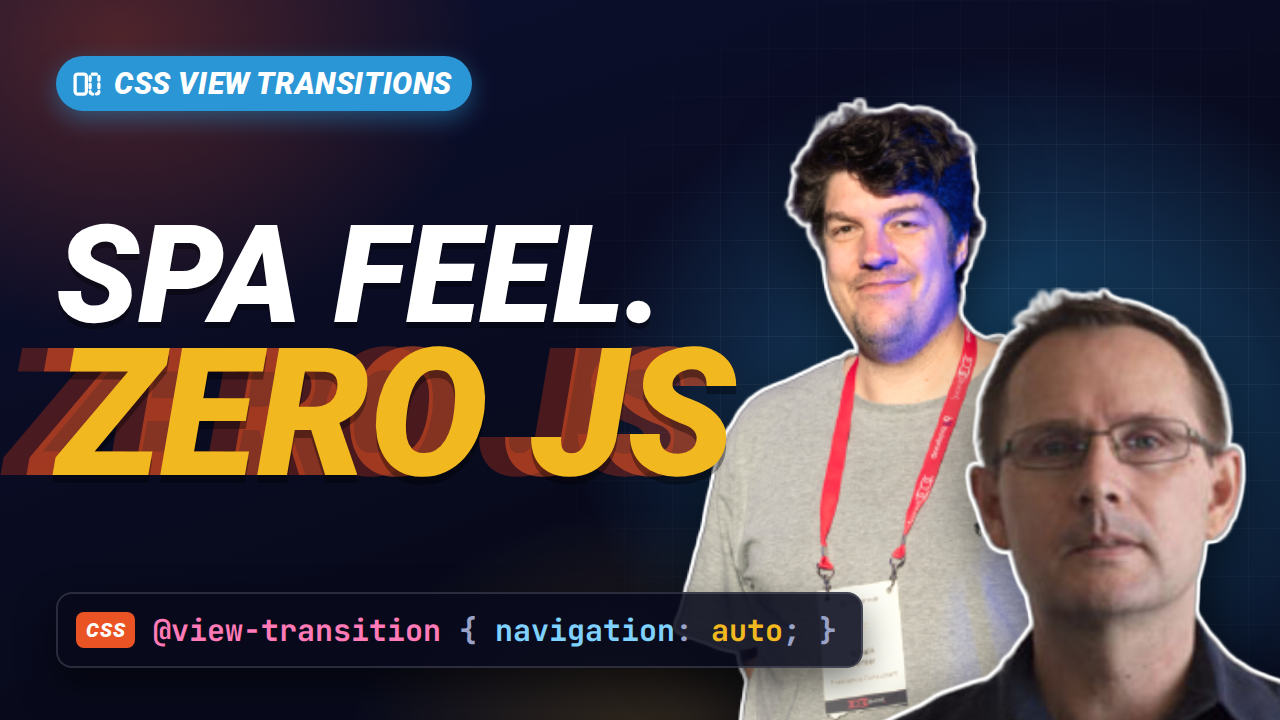
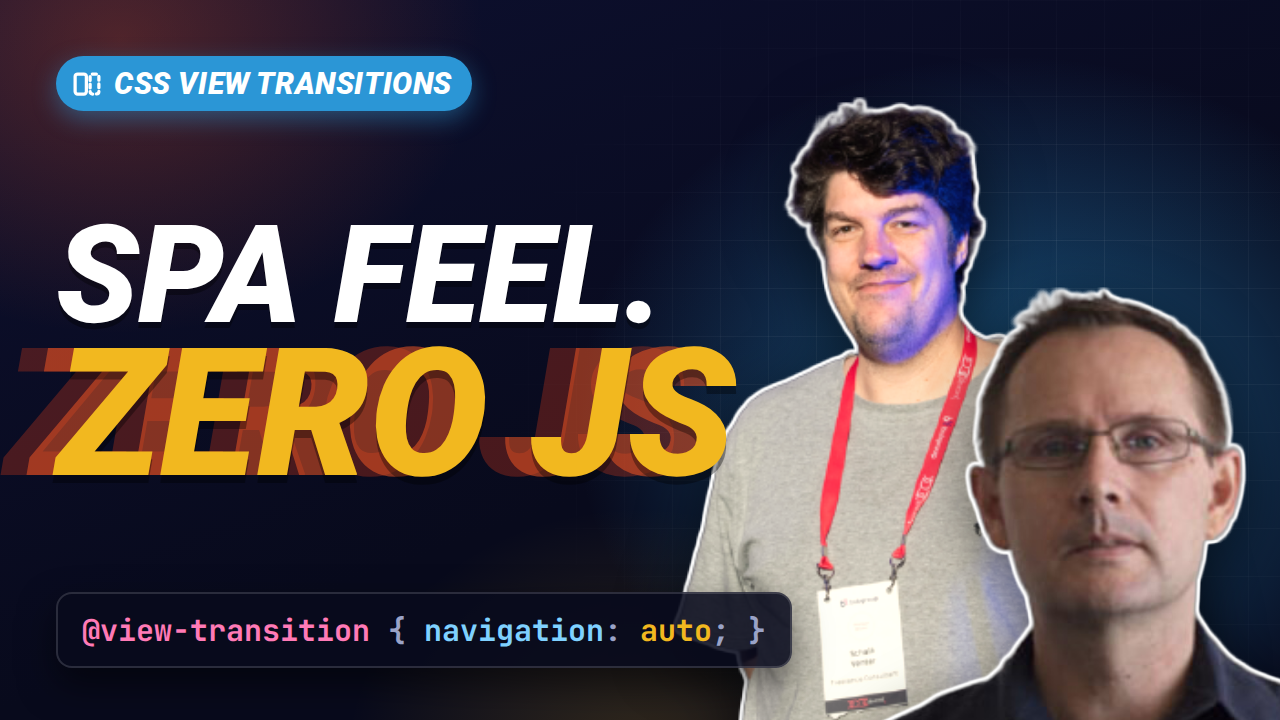
Thumbnail: remove CSS tag from code snippet
Claude-Session: https://claude.ai/code/session_0164t38uxhJ4Eb21npfFbzTE

Changed region(s): [[0.0625, 0.825, 0.6875, 0.9778]]

diff --git a/thumbnails/spa-without-javascript/thumbnail.html b/thumbnails/spa-without-javascript/thumbnail.html
@@ -134,8 +134,7 @@
   .code {
     display: inline-flex;
     align-items: center;
-    gap: 18px;
-    padding: 16px 24px 16px 18px;
+    padding: 16px 24px;
     border-radius: 16px;
     background: rgba(8,10,28,.88);
     border: 2px solid rgba(255,255,255,.14);
@@ -144,17 +143,6 @@
     font-weight: 700;
     font-size: 30px;
     white-space: nowrap;
-  }
-  .code .tag {
-    font-family: "Roboto", sans-serif;
-    font-weight: 900;
-    font-style: italic;
-    font-size: 20px;
-    letter-spacing: .04em;
-    padding: 6px 10px;
-    border-radius: 8px;
-    background: var(--orange);
-    color: #fff;
   }
   .code .at   { color: #ff7ab6; }
   .code .prop { color: #7fd1ff; }
@@ -189,7 +177,6 @@
       </h1>
 
       <div class="code">
-        <span class="tag">CSS</span>
         <span><span class="at">@view-transition</span> <span class="p">{</span> <span class="prop">navigation</span><span class="p">:</span> <span class="val">auto</span><span class="p">; }</span></span>
       </div>
     </div>
